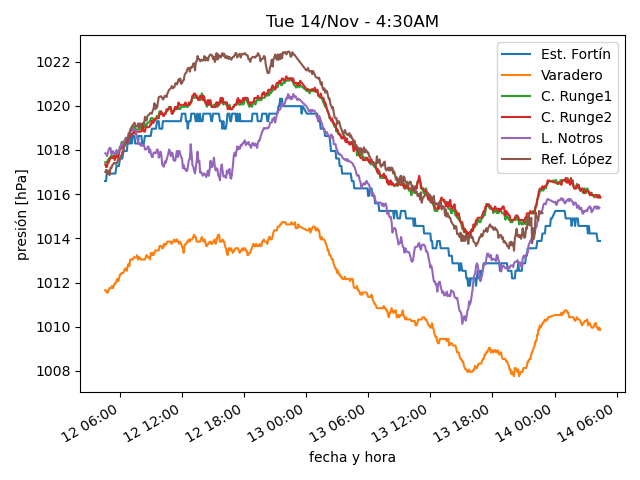
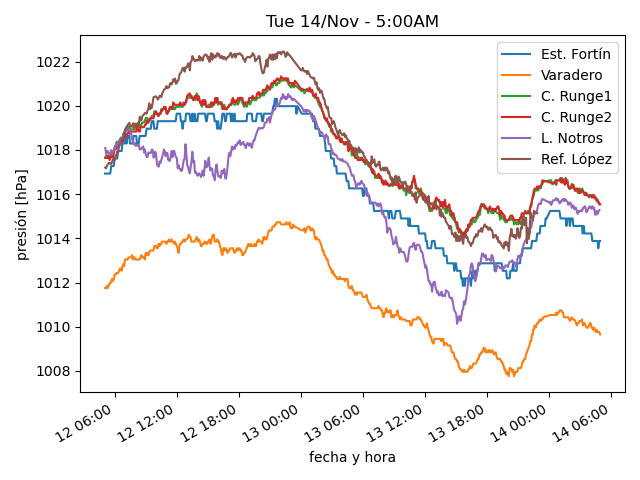
actualiza datos

diff --git a/estaciones/estacion2.html b/estaciones/estacion2.html
@@ -18,32 +18,32 @@
     </tr>
     <tr>
      <td class="stats_data">
-      4:24AM
+      4:54AM
      </td>
     </tr>
     <tr>
      <td class="stats_data">
-      3.1⁰C
+      2.6⁰C
      </td>
     </tr>
     <tr>
      <td class="stats_data">
-      -2.4⁰C
+      -3.3⁰C
      </td>
     </tr>
     <tr>
      <td class="stats_data">
-      67.5%
+      65.0%
      </td>
     </tr>
     <tr>
      <td class="stats_data">
-      1019.34hPa
+      1019.13hPa
      </td>
     </tr>
     <tr>
      <td class="stats_data">
-      10.2/14.2 km/hr WNW
+      3.9/6.5 km/hr W
      </td>
     </tr>
     <tr>

diff --git a/estaciones/estacion3.html b/estaciones/estacion3.html
@@ -18,32 +18,32 @@
     </tr>
     <tr>
      <td class="stats_data">
-      4:24AM
+      4:49AM
      </td>
     </tr>
     <tr>
      <td class="stats_data">
-      1.1⁰C
+      0.9⁰C
      </td>
     </tr>
     <tr>
      <td class="stats_data">
-      -3.5⁰C
+      -3.9⁰C
      </td>
     </tr>
     <tr>
      <td class="stats_data">
-      71.3%
+      70.3%
      </td>
     </tr>
     <tr>
      <td class="stats_data">
-      1004.13hPa
+      1003.83hPa
      </td>
     </tr>
     <tr>
      <td class="stats_data">
-      1.9/3.0 km/hr WSW
+      3.8/5.3 km/hr WSW
      </td>
     </tr>
     <tr>

diff --git a/estaciones/estacion4.html b/estaciones/estacion4.html
@@ -18,32 +18,32 @@
     </tr>
     <tr>
      <td class="stats_data">
-      4:24AM
+      4:54AM
      </td>
     </tr>
     <tr>
      <td class="stats_data">
-      0.9⁰C
+      0.7⁰C
      </td>
     </tr>
     <tr>
      <td class="stats_data">
-      -4.2⁰C
+      -4.8⁰C
      </td>
     </tr>
     <tr>
      <td class="stats_data">
-      68.9%
+      66.3%
      </td>
     </tr>
     <tr>
      <td class="stats_data">
-      1012.84hPa
+      1012.53hPa
      </td>
     </tr>
     <tr>
      <td class="stats_data">
-      0.2/0.5 km/hr SSW
+      1.5/3.0 km/hr WSW
      </td>
     </tr>
     <tr>

diff --git a/estaciones/estacion1.html b/estaciones/estacion1.html
@@ -18,22 +18,22 @@
     </tr>
     <tr>
      <td class="stats_data">
-      4:23AM
+      4:53AM
      </td>
     </tr>
     <tr>
      <td class="stats_data">
-      2.3⁰C
+      2.2⁰C
      </td>
     </tr>
     <tr>
      <td class="stats_data">
-      -3.6⁰C
+      -3.3⁰C
      </td>
     </tr>
     <tr>
      <td class="stats_data">
-      65.0%
+      67.0%
      </td>
     </tr>
     <tr>
@@ -43,7 +43,7 @@
     </tr>
     <tr>
      <td class="stats_data">
-      11.3/17.7 km/hr WSW
+      7.9/16.9 km/hr WSW
      </td>
     </tr>
     <tr>

diff --git a/estaciones/estacion5.html b/estaciones/estacion5.html
@@ -18,17 +18,17 @@
     </tr>
     <tr>
      <td class="stats_data">
-      4:20AM
+      4:50AM
      </td>
     </tr>
     <tr>
      <td class="stats_data">
-      1.1⁰C
+      1.0⁰C
      </td>
     </tr>
     <tr>
      <td class="stats_data">
-      -3.0⁰C
+      -3.1⁰C
      </td>
     </tr>
     <tr>
@@ -38,7 +38,7 @@
     </tr>
     <tr>
      <td class="stats_data">
-      1017.95hPa
+      1017.85hPa
      </td>
     </tr>
     <tr>
